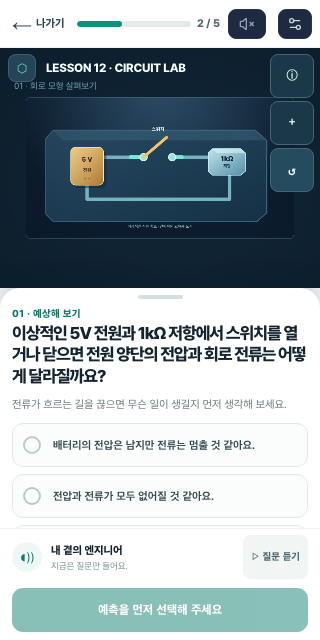
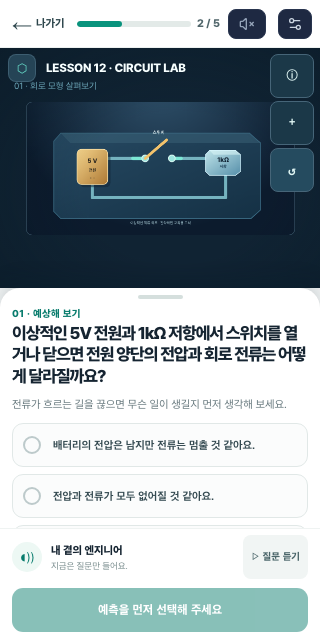
feat(camera): integrate A05 native SVG groups, calibrated bounds and smart scene framing

Changed region(s): [[0.125, 0.1875, 0.8438, 0.375], [0.2812, 0.125, 0.75, 0.1562]]

diff --git a/src/engine/sceneFraming.ts b/src/engine/sceneFraming.ts
@@ -7,6 +7,13 @@
  * (70-85% fitting axis fill) and predictable user-zoom behavior.
  */
 
+import {
+  A05_INTERACTIVE_WORLD_BOUNDS,
+  getA05InteractiveWorldBounds,
+} from '../a05/geometry/a05InteractiveBounds';
+import { A05_CONCEPT_WORLD_BOUNDS } from '../a05/concepts/a05ConceptBounds';
+import { isA05ConceptVisualId } from '../a05/concepts/a05ConceptContract';
+
 export interface BoundingBox {
   x: number;
   y: number;
@@ -434,6 +441,41 @@ export const SCENE_FRAMING_REGISTRY: Record<string, SceneFraming> = {
  * Falls back to canonical concept framing if an unregistered concept is loaded.
  */
 export function getSceneFraming(sceneId: string): SceneFraming {
+  // 1. Check A05 Concept World Bounds (PR #78)
+  if (isA05ConceptVisualId(sceneId)) {
+    const c = A05_CONCEPT_WORLD_BOUNDS[sceneId];
+    return {
+      sceneId: c.sceneId,
+      familyId: c.familyId,
+      stableBounds: { ...c.stableBounds },
+      subjectBounds: { ...c.subjectBounds },
+      essentialLabelBounds: { ...c.essentialLabelBounds },
+      policy: 'fit-subject',
+      defaultViewBox: c.defaultViewBox,
+    };
+  }
+
+  // 2. Check A05 Interactive World Bounds (PR #83)
+  const a05Interactive = getA05InteractiveWorldBounds(sceneId);
+  if (a05Interactive) {
+    let stableBounds = { ...a05Interactive.stableBounds };
+    if (a05Interactive.familyId === 'mosfet') {
+      const mosCurrent = A05_INTERACTIVE_WORLD_BOUNDS['mosfet-current'];
+      if (mosCurrent) {
+        stableBounds = { ...mosCurrent.stableBounds };
+      }
+    }
+    return {
+      sceneId: a05Interactive.sceneId,
+      familyId: a05Interactive.familyId,
+      stableBounds,
+      subjectBounds: { ...a05Interactive.subjectBounds },
+      essentialLabelBounds: { ...a05Interactive.essentialLabelBounds },
+      policy: 'fit-subject',
+      defaultViewBox: a05Interactive.defaultViewBox,
+    };
+  }
+
   const direct = SCENE_FRAMING_REGISTRY[sceneId];
   if (direct) return direct;
 

diff --git a/src/a05/concepts/A05ConceptStructureVisual.tsx b/src/a05/concepts/A05ConceptStructureVisual.tsx
@@ -77,7 +77,7 @@ export function A05ConceptStructureVisual({visualId}:A05ConceptStructureProps){
    <button type="button" aria-pressed={zoomed} onClick={()=>setZoomed(v=>!v)} aria-label={zoomed?'구조 원래 크기':'구조 확대'}>{zoomed?'원래 크기':'구조 확대'}</button>
   </div>
   <div className={zoomed?'a05-concept-scroll is-zoomed':'a05-concept-scroll'} data-testid="a05-concept-scroll">
-  <svg viewBox="0 0 640 360" role="img" tabIndex={0} aria-label={meta.title+'. '+meta.detail+'. '+meta.limitation} className="a05-concept-svg">
+  <svg viewBox="0 0 640 360" role="img" tabIndex={0} aria-label={meta.title+'. '+meta.detail+'. '+meta.limitation} className="a05-concept-svg a03-concept-svg">
    <title id={uid+'-title'}>{meta.title}</title>
    <desc id={uid+'-desc'}>{meta.detail}. {meta.limitation}.</desc>
    <rect x="2" y="2" width="636" height="356" rx="15" fill="#102333"/>

diff --git a/src/components/player/SceneViewport.tsx b/src/components/player/SceneViewport.tsx
@@ -73,6 +73,8 @@ export const SceneViewport: React.FC<SceneViewportProps> = ({
     const measure = () => {
       const slotRect = el.getBoundingClientRect();
       const subjectEl =
+        el.querySelector<SVGGraphicsElement>('g[data-scene-subject][data-scene-id]') ||
+        el.querySelector<SVGGraphicsElement>('g[data-scene-subject]') ||
         el.querySelector<SVGGraphicsElement>('[data-scene-subject="true"] svg') ||
         el.querySelector<HTMLElement>('[data-scene-subject="true"]');
       if (slotRect.width > 0 && slotRect.height > 0 && subjectEl) {
